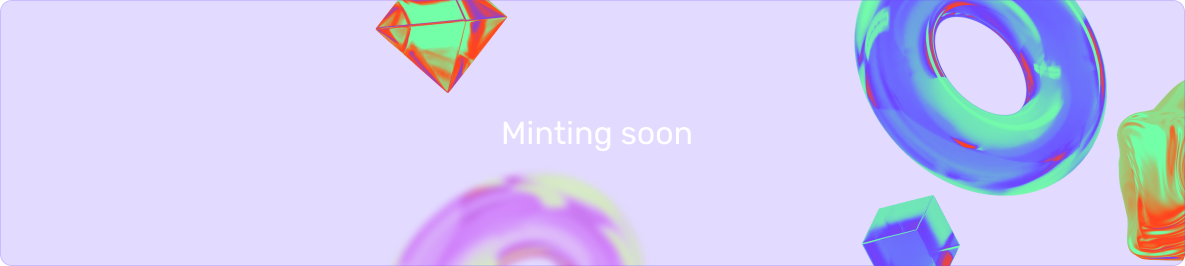
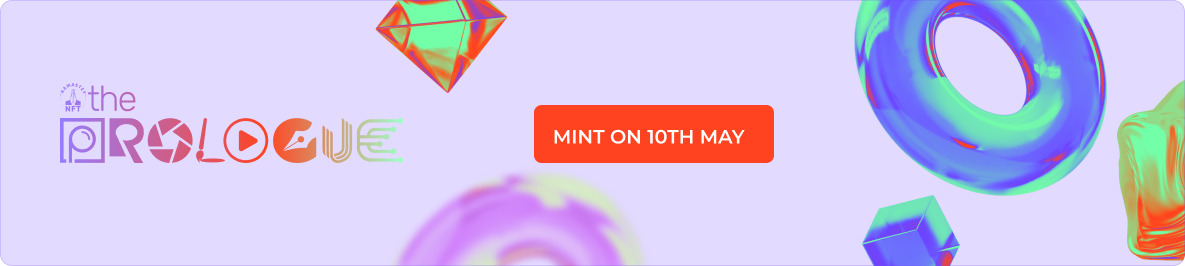
small changes

Changed region(s): [[0.0312, 0.3008, 0.3435, 0.6316], [0.4059, 0.391, 0.6557, 0.6316]]

diff --git a/events.html b/events.html
@@ -704,13 +704,14 @@
         height: 265px;
         width: 100%;
         border-radius: 8px;
+        cursor: pointer;
     }
 
     @media(max-width:767px){
         .minting_soon { padding:50px 0;}
         .minting_soon .background{
         background: url('img/frame_mint_mobile.png');
-        height: 227px;
+        height: 340px;
         background-size: cover;
         background-repeat: no-repeat;
         background-position: center center;
@@ -721,14 +722,20 @@
     }
     </style>
     <section class="minting_soon">
-        <div class="container moveContainer">
+        <div class="container moveContainer" id="minting_soon">
+            <div class="background"></div>
             <div class="imgs"> 
-                <div class="background"></div>
-                <img src="img/logo.png" class="logo" alt=""> 
+                <!-- <img src="img/logo.png" class="logo" alt="">  -->
             </div>
         </div>
     </section>
+    <script>
+        var background = document.getElementById('minting_soon')
+        background.addEventListener("click",function() {
+            location.href="the_prologue.html"
+        });
 
+    </script>
 <!-- Minting END -->
  <!-- Workshops Zone Start-->
  <style>

diff --git a/mint.html b/mint.html
@@ -31,7 +31,12 @@
     <!-- title -->
     <title>Namastey NFT presents</title>
     <!-- favicon -->
-    <link rel="icon" href="img/fav_icon.ico" />
+    <link rel="apple-touch-icon" sizes="180x180" href="/img/apple-touch-icon.png">
+    <link rel="icon" type="image/png" sizes="32x32" href="/img/favicon-32x32.png">
+    <link rel="icon" type="image/png" sizes="16x16" href="/img/favicon-16x16.png">
+    <link rel="manifest" href="/img/site.webmanifest">
+    <link rel="mask-icon" href="/img/safari-pinned-tab.svg" color="#5bbad5">
+    <link rel="shortcut icon" href="/img/favicon.ico">
     <!-- animation -->
     <link rel="stylesheet" href="css/animate.css" />
     <!-- bootstrap -->
